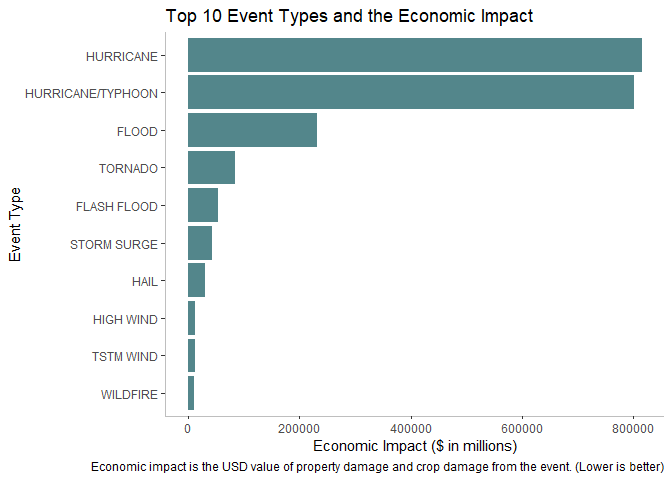
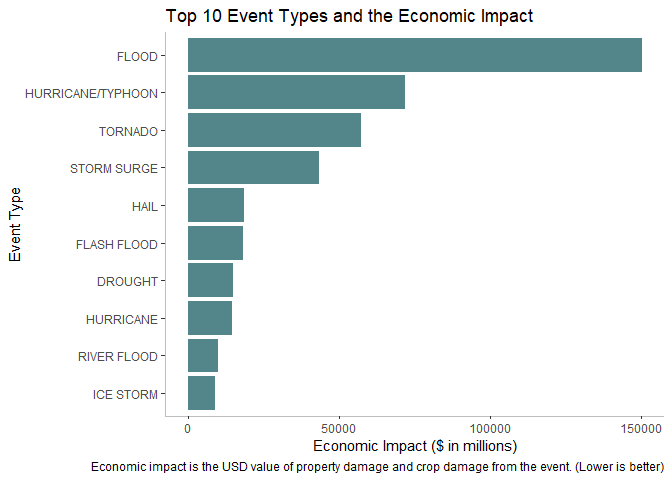
re-upload

diff --git a/Week 4/Project 2/project2.html b/Week 4/Project 2/project2.html
@@ -361,16 +361,25 @@ df$CROPDMGEXP &lt;- toupper(df$CROPDMGEXP)
 
 # transform the dataset be the actual dollar value rather than a subtotaled one
 df_economic_impact &lt;- df %&gt;%
-  mutate(multiplier_prop = ifelse(PROPDMGEXP == &quot;K&quot;, 1000,
-                                  ifelse(PROPDMGEXP == &quot;M&quot;, 1000000,
-                                         if_else(PROPDMGEXP == &quot;B&quot;, 1000000000, 0)))) %&gt;%
-  mutate(multiplier_crop = ifelse(PROPDMGEXP == &quot;K&quot;, 1000,
-                                  ifelse(PROPDMGEXP == &quot;M&quot;, 1000000,
-                                         if_else(PROPDMGEXP == &quot;B&quot;, 1000000000, 0)))) %&gt;%
-  mutate(Property_Damage_USD = PROPDMG * multiplier_prop) %&gt;%
-  mutate(Crop_Damage_USD = CROPDMG * multiplier_crop)
-
-# select only the necessary column
+  mutate(multiplier_prop = ifelse(PROPDMGEXP == &quot;K&quot;, 3,
+                                  ifelse(PROPDMGEXP == &quot;M&quot;, 6,
+                                         ifelse(PROPDMGEXP == &quot;B&quot;, 9, 
+                                                ifelse(PROPDMGEXP == &quot;H&quot;, 2, 
+                                                       ifelse(suppressWarnings(!is.na(as.numeric(PROPDMGEXP))), as.numeric(PROPDMGEXP), 0)))))) %&gt;%
+  mutate(multiplier_crop = ifelse(CROPDMGEXP == &quot;K&quot;, 3,
+                                  ifelse(CROPDMGEXP == &quot;M&quot;, 6,
+                                         ifelse(CROPDMGEXP == &quot;B&quot;, 9, 
+                                                ifelse(CROPDMGEXP == &quot;H&quot;, 2, 
+                                                       ifelse(suppressWarnings(!is.na(as.numeric(CROPDMGEXP))), as.numeric(CROPDMGEXP), 0)))))) %&gt;%
+  mutate(Property_Damage_USD = PROPDMG * 10 ** multiplier_prop) %&gt;%
+  mutate(Crop_Damage_USD = CROPDMG * 10 ** multiplier_crop)</code></pre>
+<pre><code>## Warning: Problem with `mutate()` input `multiplier_prop`.
+## i NAs introduced by coercion
+## i Input `multiplier_prop` is `ifelse(...)`.</code></pre>
+<pre><code>## Warning: Problem with `mutate()` input `multiplier_crop`.
+## i NAs introduced by coercion
+## i Input `multiplier_crop` is `ifelse(...)`.</code></pre>
+<pre class="r"><code># select only the necessary column
 df_economic_impact &lt;- df_economic_impact[, c(&quot;EVTYPE&quot;, &quot;Property_Damage_USD&quot;, &quot;Crop_Damage_USD&quot;)]
 
 # sum the property and crop dollar values to create our economic impact field
@@ -393,12 +402,12 @@ ggplot(df_economic_impact[1:10,], aes(x = Economic_Impact/1000000, y = reorder(E
   ggtitle(&quot;Top 10 Event Types and the Economic Impact&quot;) + 
   labs(caption = &quot;Economic impact is the USD value of property damage and crop damage from the event. (Lower is better)&quot;) + 
   theme(panel.border = element_blank(), panel.grid.major = element_blank(), panel.grid.minor = element_blank(), axis.line = element_line(colour = &quot;grey&quot;))</code></pre>
[2 lines of base64/hex data omitted]
 </div>
 <div id="results" class="section level3">
 <h3># Results</h3>
 <hr />
-<p>After inspecting the resulting plots, it’s clear that <strong>tornadoes</strong> cause the most damage to the population as measured by total fatalities and injuries whereas <strong>hurricanes</strong> cause the most economic damage as measured by the economic impact of property and crop damage. Natural disasters take a toll on our way of life, and it’s evident that it spans beyond simple damage. Mitigating steps should be made to reduce both the resulting damage to the population and economy as well as improving the environmental conditions globally to prevent, in whatever way we can, these events.</p>
+<p>After inspecting the resulting plots, it’s clear that <strong>tornadoes</strong> cause the most damage to the population as measured by total fatalities and injuries whereas <strong>floods</strong> cause the most economic damage as measured by the economic impact of property and crop damage. Natural disasters take a toll on our way of life, and it’s evident that it spans beyond simple damage. Mitigating steps should be made to reduce both the resulting damage to the population and economy as well as improving the environmental conditions globally to prevent, in whatever way we can, these events.</p>
 </div>
 </div>
 

diff --git a/Week 4/Project 2/project2.md b/Week 4/Project 2/project2.md
@@ -211,15 +211,33 @@ df$CROPDMGEXP <- toupper(df$CROPDMGEXP)
 
 # transform the dataset be the actual dollar value rather than a subtotaled one
 df_economic_impact <- df %>%
-  mutate(multiplier_prop = ifelse(PROPDMGEXP == "K", 1000,
-                                  ifelse(PROPDMGEXP == "M", 1000000,
-                                         if_else(PROPDMGEXP == "B", 1000000000, 0)))) %>%
-  mutate(multiplier_crop = ifelse(PROPDMGEXP == "K", 1000,
-                                  ifelse(PROPDMGEXP == "M", 1000000,
-                                         if_else(PROPDMGEXP == "B", 1000000000, 0)))) %>%
-  mutate(Property_Damage_USD = PROPDMG * multiplier_prop) %>%
-  mutate(Crop_Damage_USD = CROPDMG * multiplier_crop)
+  mutate(multiplier_prop = ifelse(PROPDMGEXP == "K", 3,
+                                  ifelse(PROPDMGEXP == "M", 6,
+                                         ifelse(PROPDMGEXP == "B", 9, 
+                                                ifelse(PROPDMGEXP == "H", 2, 
+                                                       ifelse(suppressWarnings(!is.na(as.numeric(PROPDMGEXP))), as.numeric(PROPDMGEXP), 0)))))) %>%
+  mutate(multiplier_crop = ifelse(CROPDMGEXP == "K", 3,
+                                  ifelse(CROPDMGEXP == "M", 6,
+                                         ifelse(CROPDMGEXP == "B", 9, 
+                                                ifelse(CROPDMGEXP == "H", 2, 
+                                                       ifelse(suppressWarnings(!is.na(as.numeric(CROPDMGEXP))), as.numeric(CROPDMGEXP), 0)))))) %>%
+  mutate(Property_Damage_USD = PROPDMG * 10 ** multiplier_prop) %>%
+  mutate(Crop_Damage_USD = CROPDMG * 10 ** multiplier_crop)
+```
 
+```
+## Warning: Problem with `mutate()` input `multiplier_prop`.
+## i NAs introduced by coercion
+## i Input `multiplier_prop` is `ifelse(...)`.
+```
+
+```
+## Warning: Problem with `mutate()` input `multiplier_crop`.
+## i NAs introduced by coercion
+## i Input `multiplier_crop` is `ifelse(...)`.
+```
+
+```r
 # select only the necessary column
 df_economic_impact <- df_economic_impact[, c("EVTYPE", "Property_Damage_USD", "Crop_Damage_USD")]
 
@@ -250,6 +268,6 @@ ggplot(df_economic_impact[1:10,], aes(x = Economic_Impact/1000000, y = reorder(E
 ### # Results
 ***
 
-After inspecting the resulting plots, it's clear that **tornadoes** cause the most damage to the population as measured by total fatalities and injuries whereas **hurricanes** cause the most economic damage as measured by the economic impact of property and crop damage. Natural disasters take a toll on our way of life, and it's evident that it spans beyond simple damage. Mitigating steps should be made to reduce both the resulting damage to the population and economy as well as improving the environmental conditions globally to prevent, in whatever way we can, these events.
+After inspecting the resulting plots, it's clear that **tornadoes** cause the most damage to the population as measured by total fatalities and injuries whereas **floods** cause the most economic damage as measured by the economic impact of property and crop damage. Natural disasters take a toll on our way of life, and it's evident that it spans beyond simple damage. Mitigating steps should be made to reduce both the resulting damage to the population and economy as well as improving the environmental conditions globally to prevent, in whatever way we can, these events.
 
 
